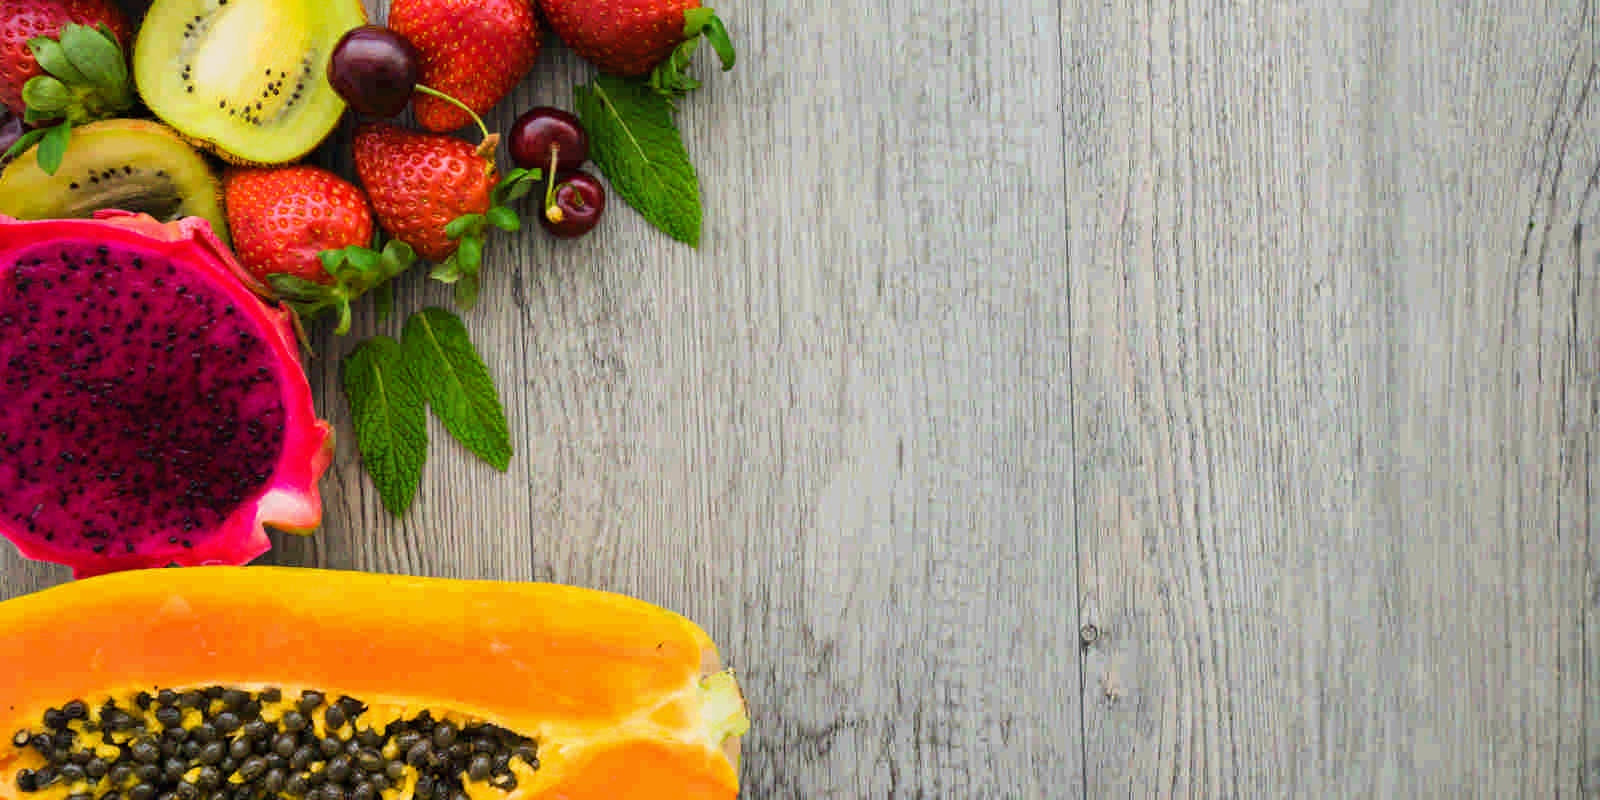
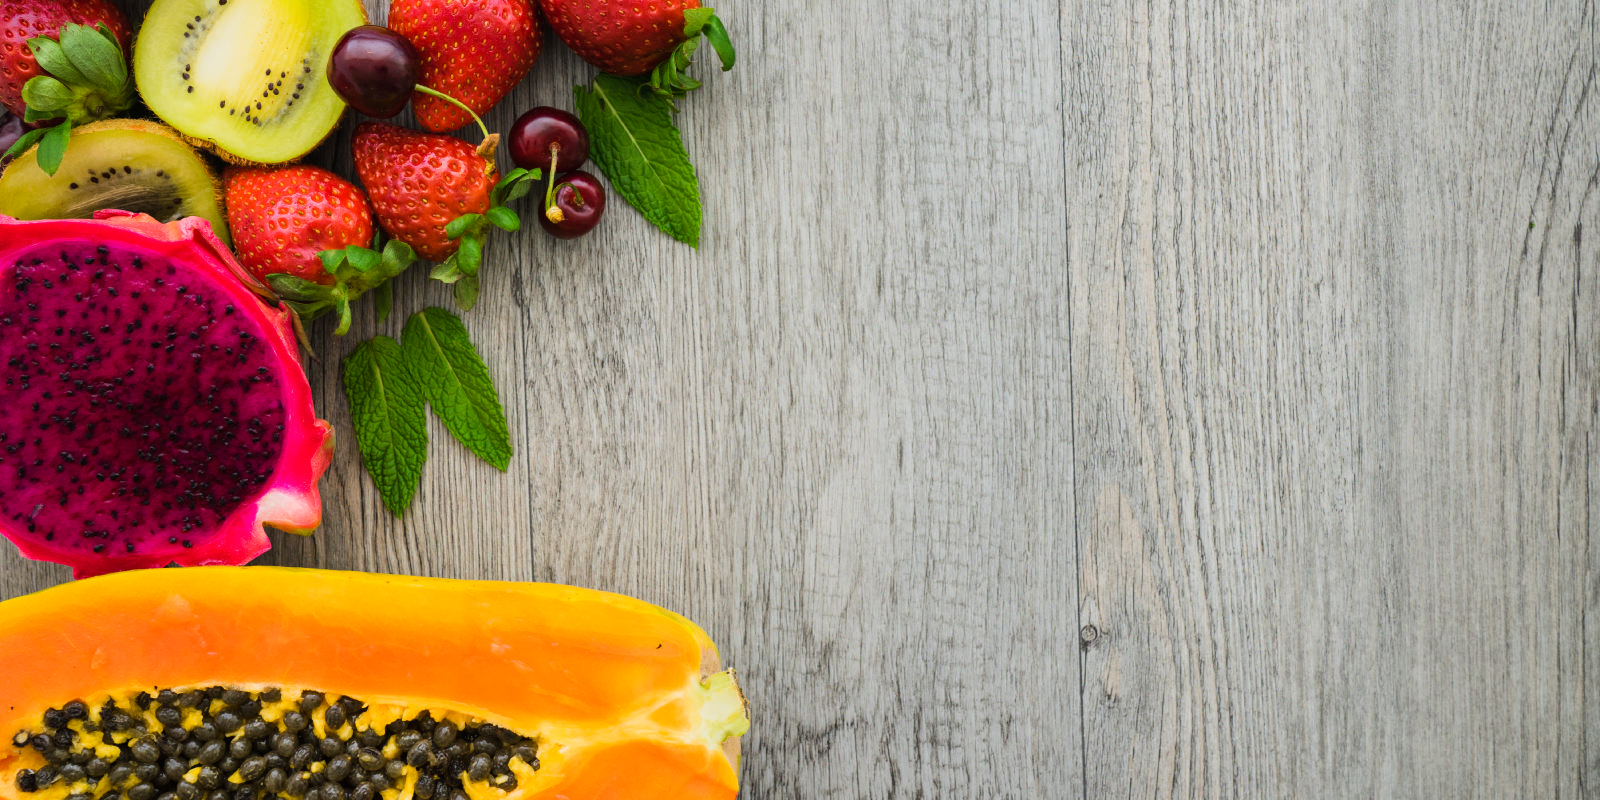
wizard intergration and api fixes

diff --git a/index.html b/index.html
@@ -59,7 +59,7 @@
         </div>
         <div class="main-container">
             <section class="cover imagebg text-center section--ken-burns height-80" data-overlay="4">
-                <div class="background-image-holder"> <img alt="background" src="img/frootly-bg.png"> </div>
+                <div class="background-image-holder"> <img alt="background" src="img/frootly-bg.jpg"> </div>
                 <div class="container pos-vertical-center">
                     <div class="row">
                         <div class="col-sm-8 col-md-7">

diff --git a/css/custom.css b/css/custom.css
@@ -261,7 +261,7 @@
 }
 
 .image-background {
-  background-image: url(../img/frootly-bg.png);
+  background-image: url(../img/frootly-bg.jpg);
   background-repeat: no-repeat;
   background-attachment: fixed;
 
